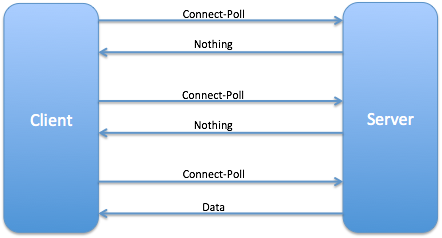
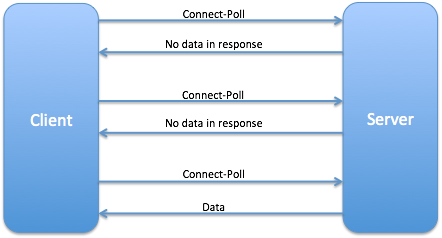
fixes in chapter 9 after peer review

Changed region(s): [[0.3529, 0.5, 0.5882, 0.5588], [0.3529, 0.1471, 0.6176, 0.2059]]

diff --git a/include/sse_api_example.js b/include/sse_api_example.js
@@ -1,8 +1,8 @@
 var source;
 if( !! window.EventSource) {
-    source = new EventSource('/donate_web/api/donations/events');  // <1>
+    source = new EventSource('http://localhost:8080/donate_web/api/donations/events');  // <1>
 } else {
-    console.log("sse not supported")
+    // notify use that her browser doesn't support SSE
 }
 
 source.addEventListener('open', function(e) {                   // <2>
@@ -10,11 +10,11 @@ source.addEventListener('open', function(e) {                   // <2>
 }, false);
 
 source.addEventListener('create', function(e) {                 // <3>
-    console.log(e.data);
+    // do something with data
 }, false);
 
 source.addEventListener('update', function(e) {                 // <4>
-    console.log(e.data);
+    // do something with data
 }, false);
 
 source.addEventListener('error', function(e) {

diff --git a/include/auction_set_ws_listeners.js b/include/auction_set_ws_listeners.js
@@ -1,10 +1,11 @@
  if(window.WebSocket) {
-   webSocket = new WebSocket("ws://localhost:8080/child-auction/auction");
+   webSocket = new WebSocket("ws://savesickchild.org:8080/project-16-websocket-auction//child-auction/auction");
    webSocket.onopen = function() {
      console.log("connection open...");         //<1>
      getAuctionsList();
    };
    webSocket.onclose = function(closeEvent) {
+      // notify user that connection was closed
      console.log("close code " + closeEvent.code);
    };
    webSocket.onmessage = function(messageEvent) {
@@ -14,6 +15,7 @@
      }
    };
    return webSocket.onerror = function() {
+    // notify user about connection error
      console.log("websocket error");
    };
  }
